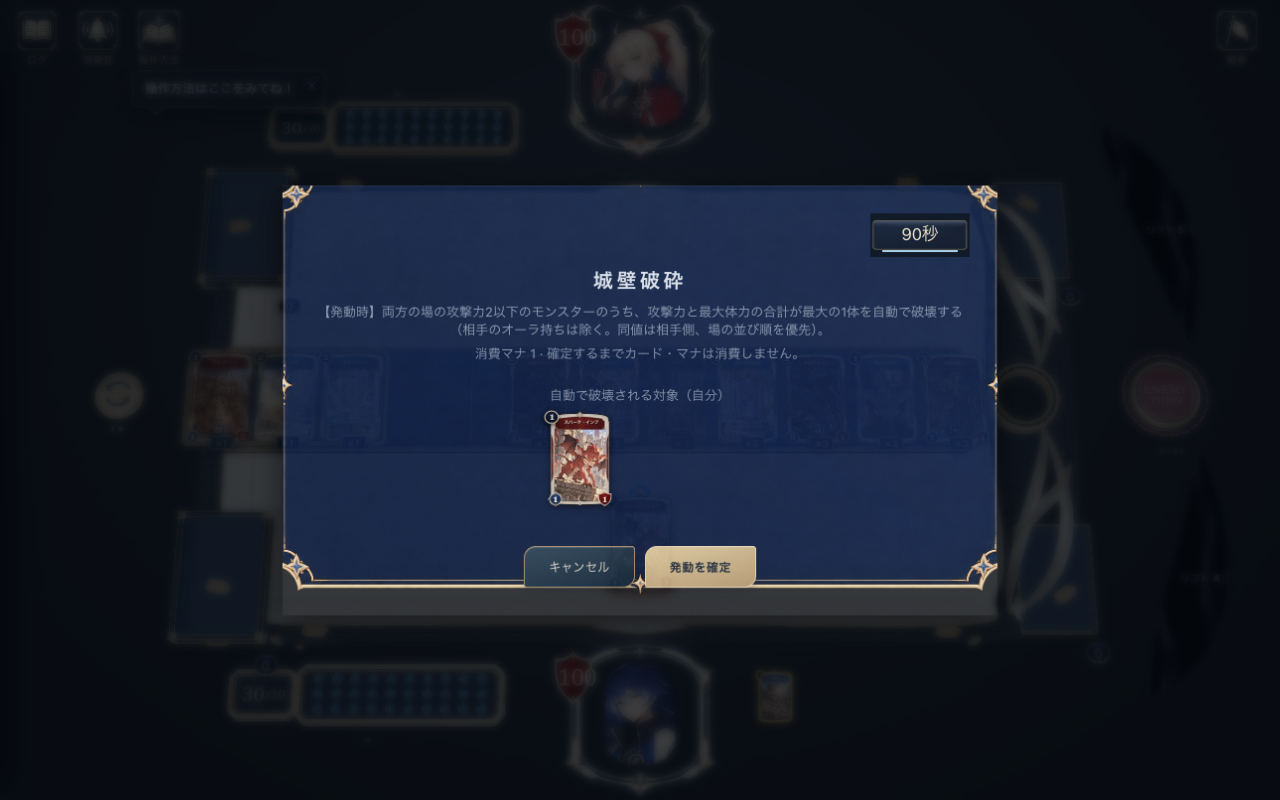
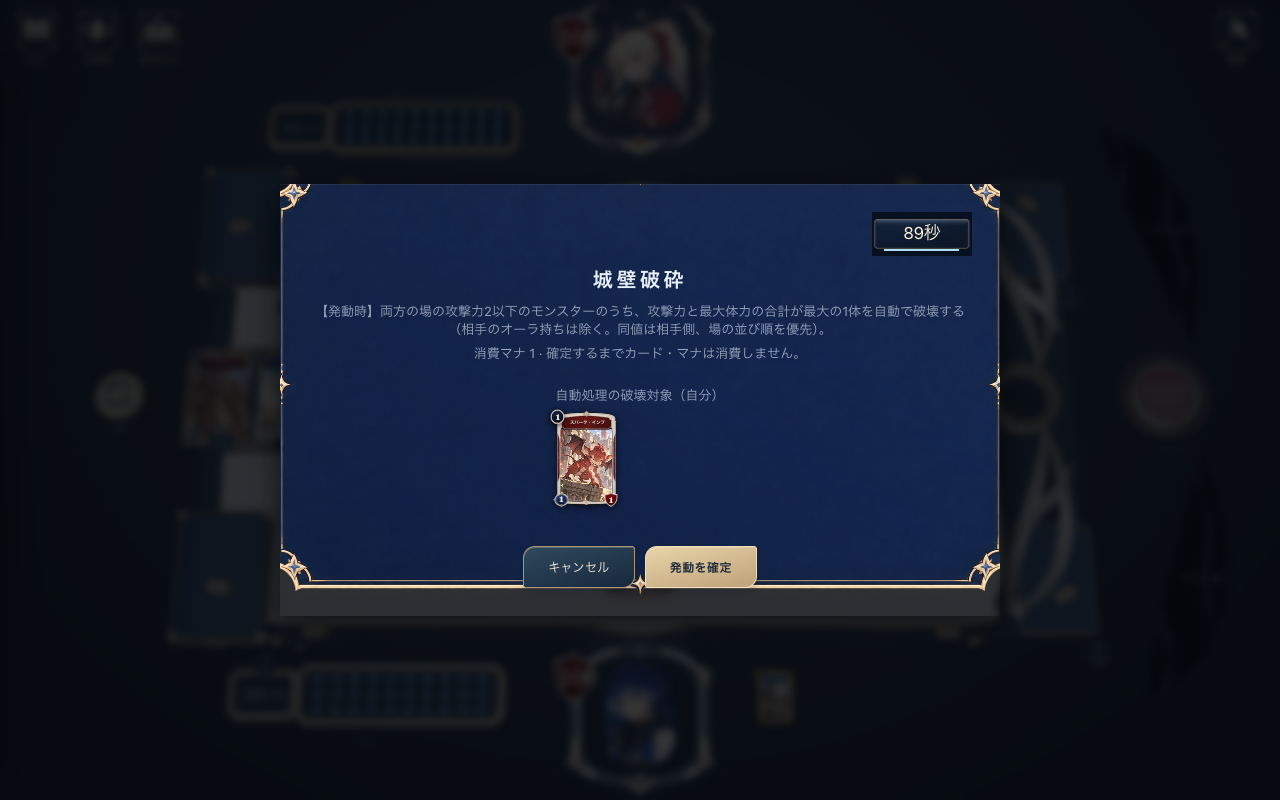
Cover deck removal preselection and verify target review UX

Changed region(s): [[0.2188, 0.2188, 0.7812, 0.75], [0.5312, 0.6875, 0.5938, 0.7188], [0.4688, 0.7188, 0.5, 0.75]]

diff --git a/client/src/shared/playIntent.ts b/client/src/shared/playIntent.ts
@@ -24,6 +24,7 @@ export function playIntent(g: GameState, owner: Side, c: CardInst): PlayIntent |
   switch (c.id) {
     // These IDs override their legacy act with automatic target rules.
     case 'WALLBREAK1': case 'SNIPE1': return null;
+    case 'FOCUS': case 'PURGE_ALL': return plan('purge',[...p.deck,...p.discard,c].filter(h=>!hasPassive(h,'relic')).sort((a,b)=>a.cost-b.cost||a.id.localeCompare(b.id)||a.uid.localeCompare(b.uid)),c.id==='FOCUS'?3:99,0);
     case 'SELECTED_SWORD': return plan(c.id, [...p.field, ...enemy]);
     case 'TRUMPET': return plan('buffTurn', p.field, 3, 0);
     case 'AEM': return plan('golemBuff', p.field.filter(isGolem), 2, 2);
@@ -48,7 +49,7 @@ export function playIntent(g: GameState, owner: Side, c: CardInst): PlayIntent |
     case 'destroyEnch': return plan(c.act, board(false, true), c.val || 1, 0);
     case 'seek': return plan(c.act, [...p.deck].sort((a,b) => a.cost-b.cost || a.id.localeCompare(b.id) || a.uid.localeCompare(b.uid)), 1, 0);
     case 'recall': return plan(c.act, p.discard.filter(h => h.uid !== c.uid), 1, 0);
-    case 'exilePick': return plan(c.act, p.discard.filter(h => !hasPassive(h,'relic')), 1, 0);
+    case 'exilePick': return plan(c.act, [...p.discard,c].filter(h => !hasPassive(h,'relic')), 1, 0);
     case 'incubate': return plan(c.act, p.field.filter(m => m.hatch != null), 1, 0);
     default: return null;
   }

diff --git a/client/src/ui/boardView.ts b/client/src/ui/boardView.ts
@@ -8,10 +8,12 @@ import {handFan} from './handFan';
 import {fieldPositions,settleField} from './fieldLayout';
 import {clearBiblionFx} from './biblionFx';
 import {prepareDuel} from './duelReadiness';
-// =====================================================// LORE — board view. Renders the whole game from a GameState
+// ============================================================
+// LORE — board view. Renders the whole game from a GameState
 // (from the viewer's perspective) and wires interaction handlers.
 // All animation lives in anim.ts; this file only draws + binds.
-// =====================================================import type { CardInst, GameState, PlayerState, Side } from "../shared/types";
+// ============================================================
+import type { CardInst, GameState, PlayerState, Side } from "../shared/types";
 import { purchaseAllowed, freeBuyBlocked, playBlockReason, cardPlayConditionMet } from "../shared/engine";
 import { MAX_MANA, FIELD_MAX, ST_MAX, effMaxMana, playCost, buyCost, effAtk, effDef, curHp, isVampFamily, isGolem, marketStockOf } from "../shared/engine";
 import { enchantHasTurnCountdown, fieldFrameFor, frameFor, FRAME_BACK, sleeveUrl, DB as DBC, STARTERS, hasPassive } from "../shared/cards";

diff --git a/server/src/gameInput.ts b/server/src/gameInput.ts
@@ -8,7 +8,7 @@ const uid = (v: unknown): v is string => typeof v === 'string' && v.length > 0 &
 function isAction(v: unknown): v is Action {
   if (!object(v)) return false;
   switch (v.type) {
-    case 'play': return index(v.idx) && (v.sourceUid === undefined || uid(v.sourceUid)) && (v.targets === undefined || Array.isArray(v.targets) && v.targets.length <= 32 && v.targets.every(uid));
+    case 'play': return index(v.idx) && (v.sourceUid === undefined || uid(v.sourceUid)) && (v.targets === undefined || Array.isArray(v.targets) && v.targets.length <= 99 && v.targets.every(uid));
     case 'buyMarket': case 'buySupply': return index(v.i);
     case 'attack': return uid(v.uid);
     case 'pick': case 'chooseTarget': return v.uid === null || uid(v.uid);

diff --git a/docs/audits/2026-10-08-target-choice/README.md b/docs/audits/2026-10-08-target-choice/README.md
@@ -6,7 +6,7 @@
 
 |問題|変更|
 |---|---|
-|対象を選ぶ前にカード・マナを消費していた|公開情報だけで決まる24種類の魔法は、発動前に対象を選択し、確定と同時に送信。キャンセルはゲーム操作を送らず消費ゼロ|
+|対象を選ぶ前にカード・マナを消費していた|公開情報だけで決まる26種類の魔法は、発動前に対象を選択し、確定と同時に送信。キャンセルはゲーム操作を送らず消費ゼロ|
 |選りすぐりの剣が自分側限定だった|ユーザー指定に従って両方の場を候補に変更。相手のオーラは対象外。相手を選ぶと強化先について明示|
 |相手側への剣の強化の期限|付与ターンを記録し、そのターン終了時に加算した量だけ解除。他の一時強化を消さない|
 |自動破壊が味方を選ぶ場合も即実行|城壁破砕・狙撃の単体自動破壊は発動前に実際の対象と自分／相手を表示。自動選択ルールは維持|
@@ -27,7 +27,7 @@
 
 ## 検証
 
-- `tests/target-choice-ux.mjs`: 両プレイヤー・敵だけの盤面・オーラ・0/1/4カル・付与量と期限・不正入力・任意0対象・自傷敗北・自動破壊・24種類の元の処理との一致。
+- `tests/target-choice-ux.mjs`: 両プレイヤー・敵だけの盤面・オーラ・0/1/4カル・付与量と期限・不正入力・任意0対象・自傷敗北・自動破壊・26種類の元の処理との一致。
 - `tests/target-choice-ui.mjs`: 実カードUI、3言語、選び直し、確定、キャンセル、Esc、画面差し替え、対象不在。
 - `tests/target-choice-server.mjs`: GameRoomの2つのソケット、操作権限、不正対象、古いカード指定、非公開手札、休止復帰、期限。
 - `tests/target-choice-browser.mjs`: 実コントローラーを用いたローカル盤面fixture。1280×800、390×844、320×640、844×390。選択・取り消し・確定・時間切れを確認。スクリーンショットと結果は `browser/`。
